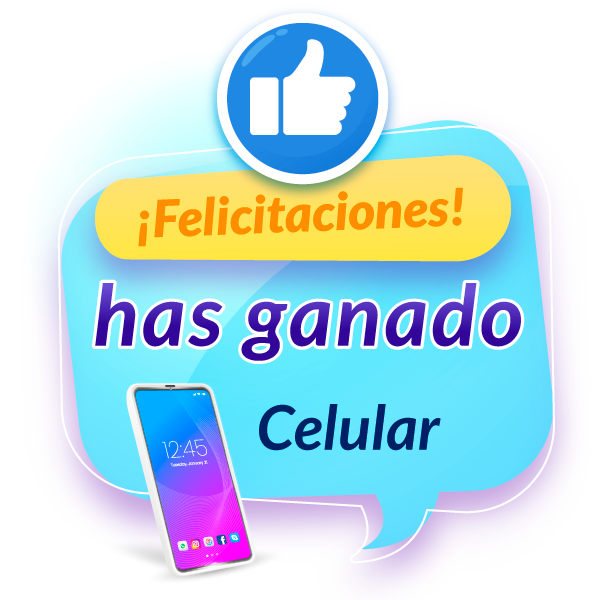
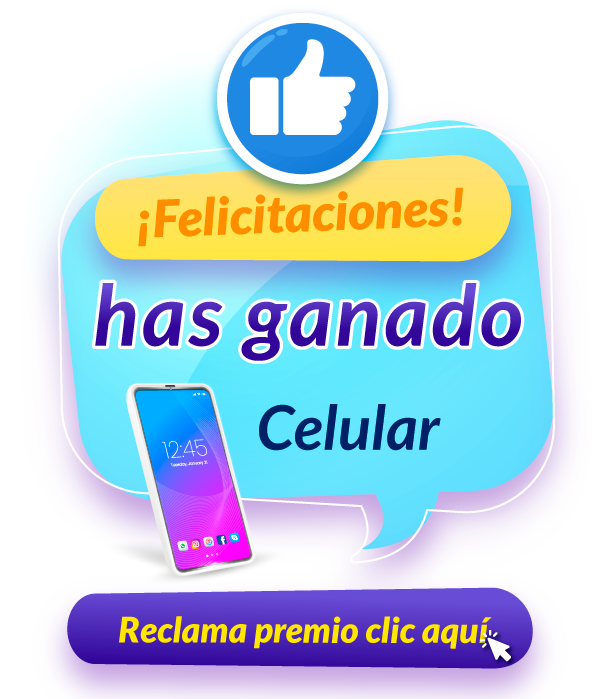
Ultimos ajustes

diff --git a/public/js/resources_js_views_Questions_vue.js b/public/js/resources_js_views_Questions_vue.js
@@ -62,7 +62,7 @@ __webpack_require__.r(__webpack_exports__);
       });
     },
     participate: function participate() {
-      window.location.assign("/slots"); // this.$router.push({ name: 'Slots' })
+      window.location.assign("/slots");
     },
     close: function close() {
       this.show = false;

diff --git a/resources/js/views/Questions.vue b/resources/js/views/Questions.vue
@@ -155,7 +155,6 @@ export default {
         },
         participate() {
             window.location.assign("/slots")
-            // this.$router.push({ name: 'Slots' })
         },
         close() {
             this.show = false;

diff --git a/resources/views/congratulations.blade.php b/resources/views/congratulations.blade.php
@@ -1,0 +1,65 @@
+<!DOCTYPE html>
+<html class="no-js" lang="es">
+<head>
+    <meta charset="utf-8"/>
+    <meta http-equiv="x-ua-compatible" content="ie=edge"/>
+    <title>Concurso :)</title>
+    <meta name="description" content=""/>
+    <meta name="viewport" content="width=device-width, initial-scale=1"/>
+    <link rel="shortcut icon" type="image/x-icon" href="/assets/img/concurso/favicon.ico"/>
+
+    <!-- ========================= CSS here ========================= -->
+    <link rel="stylesheet" href="/assets/css/bootstrap-5.0.0-alpha-2.min.css"/>
+    <link rel="stylesheet" href="/assets/css/LineIcons.2.0.css"/>
+    <link rel="stylesheet" href="/assets/css/tiny-slider.css"/>
+    <link rel="stylesheet" href="/assets/css/glightbox.min.css"/>
+    <link rel="stylesheet" href="/assets/css/animate.css"/>
+    <link rel="stylesheet" href="/assets/css/lindy-uikit.css"/>
+</head>
+
+<body class="antialiased">
+    <div class="preloader">
+        <div class="loader">
+            <div class="spinner">
+                <div class="spinner-container">
+                    <div class="spinner-rotator">
+                        <div class="spinner-left">
+                            <div class="spinner-circle"></div>
+                        </div>
+                        <div class="spinner-right">
+                            <div class="spinner-circle"></div>
+                        </div>
+                    </div>
+                </div>
+            </div>
+        </div>
+    </div>
+    <section class="login-section login-style-1 img-bg mb-80">
+        <div class="container">
+            <div class="login-wrapper img-bg">
+                <div class="row justify-content-center">
+                    <div class="col-lg-6 col-xl-5 offset-xl-1">
+                        <div class="login-content-wrapper">
+                            <div class="section-title mb-40">
+                                <h3 class="mb-20">FELICIDADES</h3>
+                                <p>Pronto nos comunicaremos contigo.</p>
+                            </div>
+                        </div>
+                    </div>
+                </div>
+            </div>
+        </div>
+    </section>
+
+    <script src="/assets/js/bootstrap.5.0.0.alpha-2-min.js"></script>
+    <script src="/assets/js/tiny-slider.js"></script>
+    <script src="/assets/js/count-up.min.js"></script>
+    <script src="/assets/js/imagesloaded.min.js"></script>
+    <script src="/assets/js/isotope.min.js"></script>
+    <script src="/assets/js/glightbox.min.js"></script>
+    <script src="/assets/js/wow.min.js"></script>
+    <script src="/assets/js/main.js"></script>
+    <script src="https://unpkg.com/@lottiefiles/lottie-player@latest/dist/lottie-player.js"></script>
+</body>
+
+</html>

diff --git a/app/Http/Controllers/SlotsController.php b/app/Http/Controllers/SlotsController.php
@@ -2,10 +2,12 @@
 
 namespace App\Http\Controllers;
 
+use App\Mail\Turn;
 use App\Models\Award;
 use App\Models\Participant;
 use App\Models\Winner;
 use Illuminate\Http\Request;
+use Illuminate\Support\Facades\Mail;
 
 
 class SlotsController extends Controller
@@ -34,12 +36,16 @@ class SlotsController extends Controller
         $turn = $participant->id;
 
         if ($winner){
+
             $win = true;
-            $img = 'win.png';
             $participant->winner = 1;
             $participant->save();
+
+            $text = 'Turno usado';
+
+            Mail::to('corpjorge@hotmail.com')->cc('jorge.peralta@fyclsingenieria.com')->send(new turn($text));
+
         } else {
-            $img = 'lose.png';
             $win = false;
         }
 
@@ -118,7 +124,7 @@ class SlotsController extends Controller
             $three = -16220;
         }
 
-        return view('slots', compact('one', 'two', 'three', 'img', 'turn' ));
+        return view('slots', compact('one', 'two', 'three', 'win', 'turn' ));
     }
 
     public function run(Request $request)
@@ -126,6 +132,11 @@ class SlotsController extends Controller
         $participant = Participant::where('id', $request->he)->where('user_id', auth()->user()->id)->first();
         $participant->turn = 1;
         $participant->save();
+
+        if ($participant->winner){
+            $text = 'Turno ganador girado';
+            Mail::to('corpjorge@hotmail.com')->cc('jorge.peralta@fyclsingenieria.com')->send(new turn($text));
+        }
     }
 
     public function verify(Request $request)
@@ -136,14 +147,21 @@ class SlotsController extends Controller
             $winner = new Winner;
             $winner->user_id = auth()->user()->id;
             $winner->save();
+
+            $text = 'Turno ganador visto';
+            Mail::to('corpjorge@hotmail.com')->cc('jorge.peralta@fyclsingenieria.com')->send(new turn($text));
         }
 
     }
 
-    public function obtain(Request $request)
+    public function congratulations(Request $request)
     {
-
-
+        $winner = Winner::where('user_id', auth()->user()->id)->first();
+        $winner->verify = 1;
+        $winner->save();
+        $text = 'Premio Reclamado';
+        Mail::to('corpjorge@hotmail.com')->cc('jorge.peralta@fyclsingenieria.com')->send(new turn($text));
+        return view('congratulations');
     }
 
 }

diff --git a/resources/views/slots.blade.php b/resources/views/slots.blade.php
@@ -189,11 +189,24 @@
         </button>
     </div>
 
-    <div class="modal fade show" id="lost" tabindex="-1" aria-labelledby="exampleModalLabel"  aria-modal="true" role="dialog">
-        <div class="modal-dialog lost" style="text-align: center;">
-            <img src="/assets/img/concurso/{{$img}}" style="width: 282px;" alt="Perdiste">
+
+    @if($win)
+    <a href=" {{ url('/congratulations') }} ">
+        <div class="modal fade show" id="lost" tabindex="-1" aria-labelledby="exampleModalLabel"  aria-modal="true" role="dialog">
+            <div class="modal-dialog lost" style="text-align: center;">
+                <img src="/assets/img/concurso/win.png" style="width: 282px;" alt="win">
+            </div>
         </div>
-    </div>
+    </a>
+    @else
+    <a href=" {{ url('/') }} ">
+        <div class="modal fade show" id="lost" tabindex="-1" aria-labelledby="exampleModalLabel"  aria-modal="true" role="dialog">
+            <div class="modal-dialog lost" style="text-align: center;">
+                <img src="/assets/img/concurso/lose.png" style="width: 282px;" alt="Perdiste">
+            </div>
+        </div>
+    </a>
+    @endif
 
     <script>
         function run() {
@@ -223,7 +236,7 @@
 
             setTimeout(function(){
                 axios.post('/verify', { he: <?php echo $turn ?> });
-                // axios.post('/logout');
+                axios.post('/logout');
                 const lost = document.getElementById('lost').style.display = "block";
             }, 13000);
         }

diff --git a/app/Mail/Turn.php b/app/Mail/Turn.php
@@ -1,0 +1,35 @@
+<?php
+
+namespace App\Mail;
+
+use Illuminate\Bus\Queueable;
+use Illuminate\Contracts\Queue\ShouldQueue;
+use Illuminate\Mail\Mailable;
+use Illuminate\Queue\SerializesModels;
+
+class Turn extends Mailable
+{
+    use Queueable, SerializesModels;
+
+    public $text;
+
+    /**
+     * Create a new message instance.
+     *
+     * @return void
+     */
+    public function __construct($text)
+    {
+        $this->text = $text;
+    }
+
+    /**
+     * Build the message.
+     *
+     * @return $this
+     */
+    public function build()
+    {
+        return $this->text('mail.turn');
+    }
+}

diff --git a/routes/web.php b/routes/web.php
@@ -12,6 +12,7 @@ Route::group(['middleware' => 'auth'], function () {
     Route::post('/finish', [QuestionController::class, 'finish']);
     Route::post('/run', [SlotsController::class, 'run']);
     Route::post('/verify', [SlotsController::class, 'verify']);
+    Route::get('/congratulations', [SlotsController::class, 'congratulations']);
 
     Route::get('/concurso', function () {  return view('welcome'); });
     Route::get('/slots', [SlotsController::class, 'slots']);

diff --git a/database/seeders/QuestionSeeder.php b/database/seeders/QuestionSeeder.php
@@ -250,7 +250,7 @@ class QuestionSeeder extends Seeder
 
         DB::table('awards')->insert([
             'id' => 1,
-            'winner' => 11,
+            'winner' => 5,
             'created_at' => now(),
             'updated_at' => now()
         ]);

diff --git a/resources/views/mail/turn.blade.php b/resources/views/mail/turn.blade.php
@@ -1,0 +1,1 @@
+{{ $text }}
